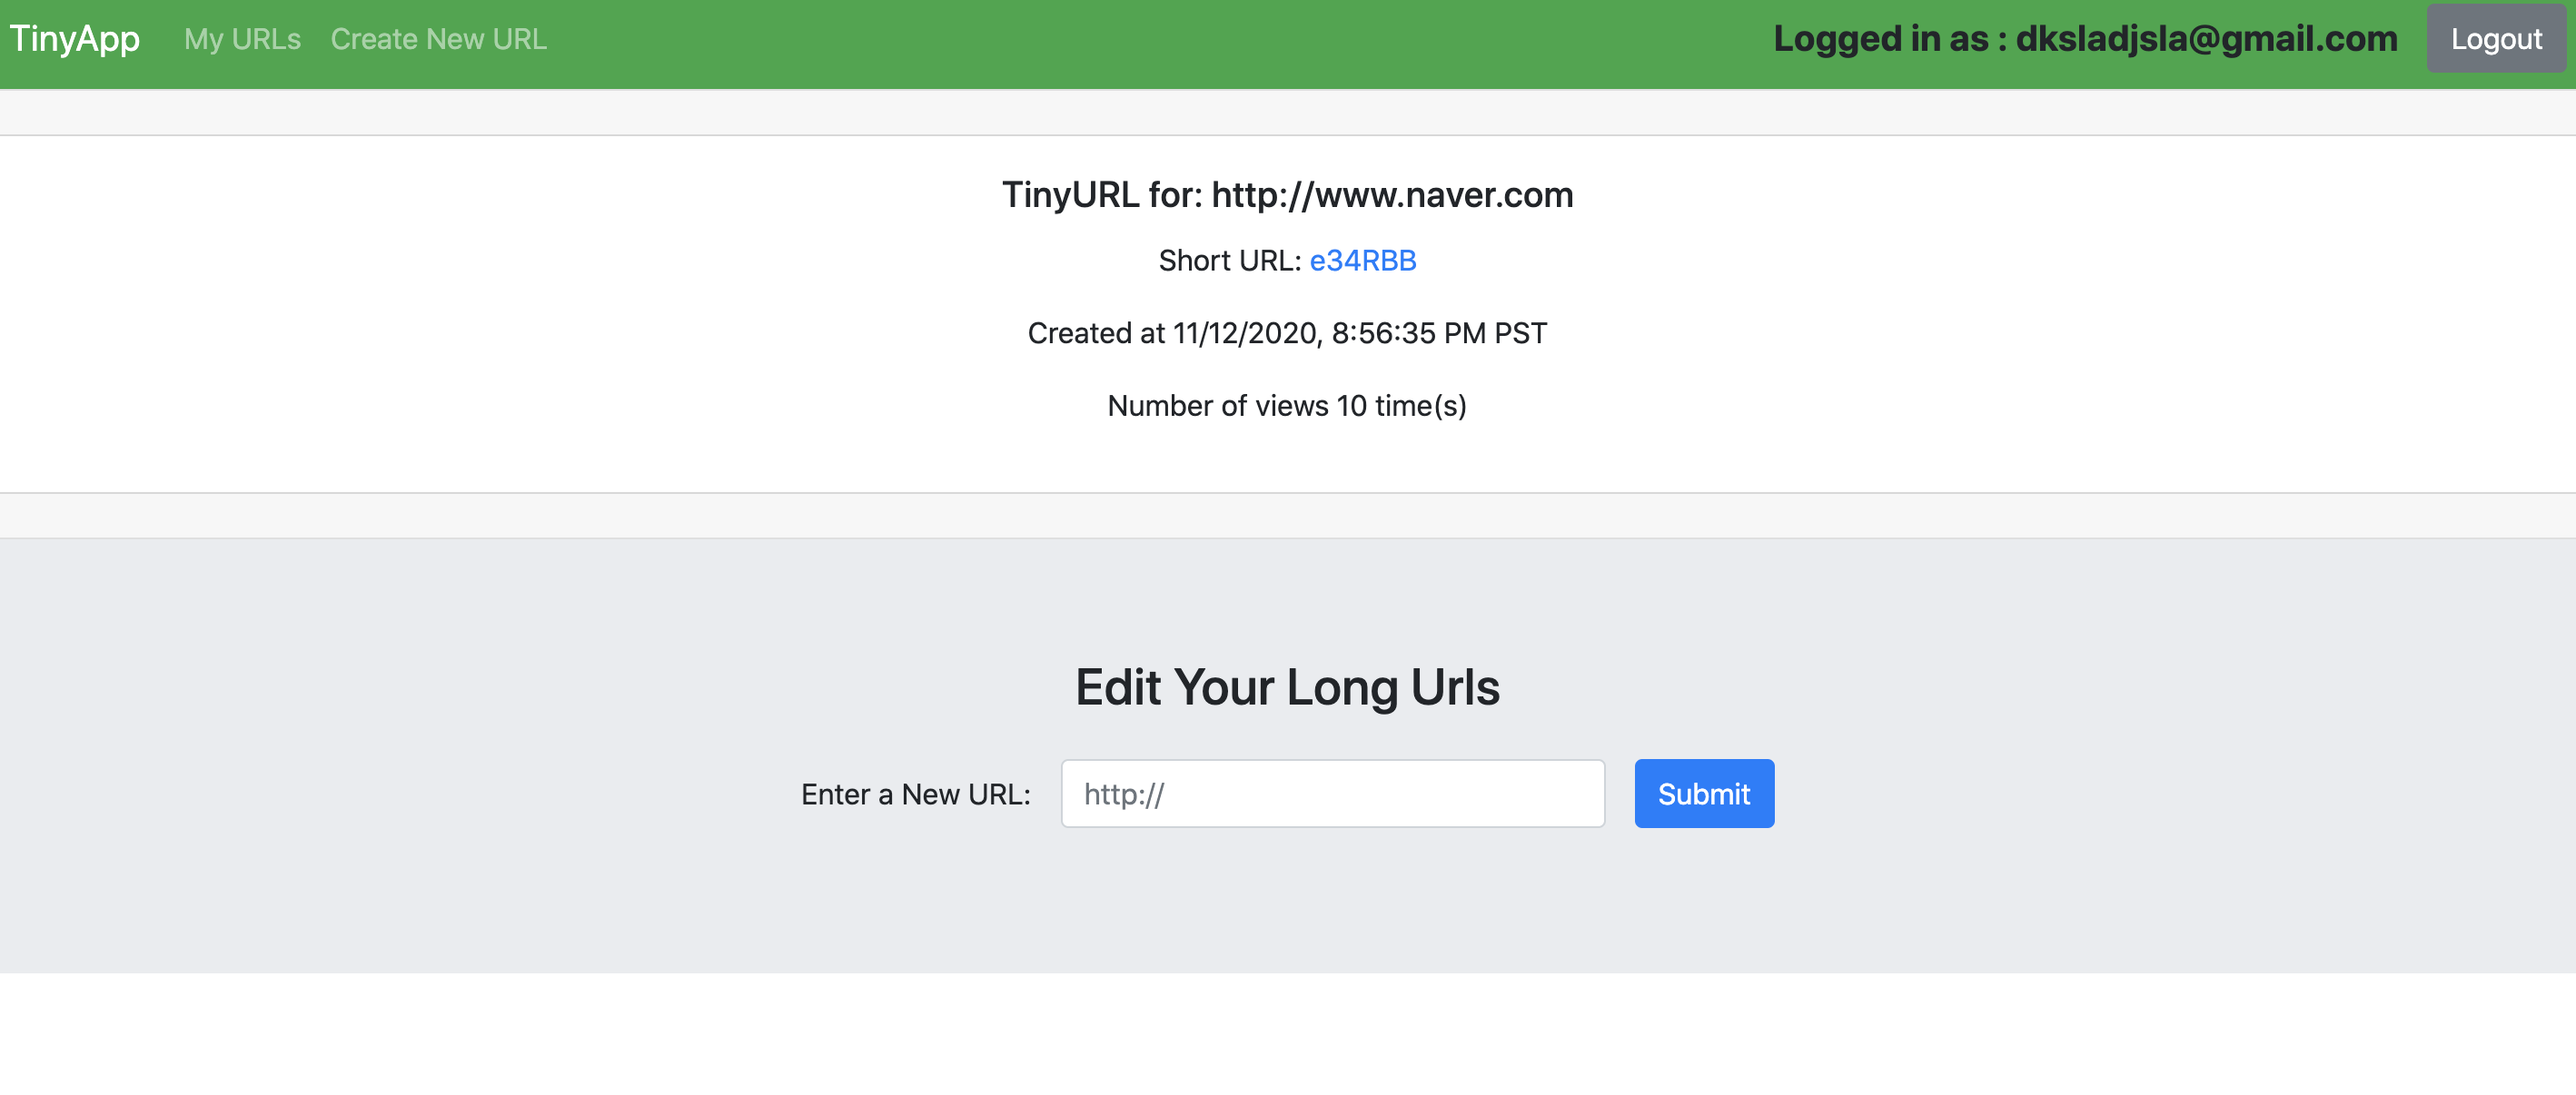
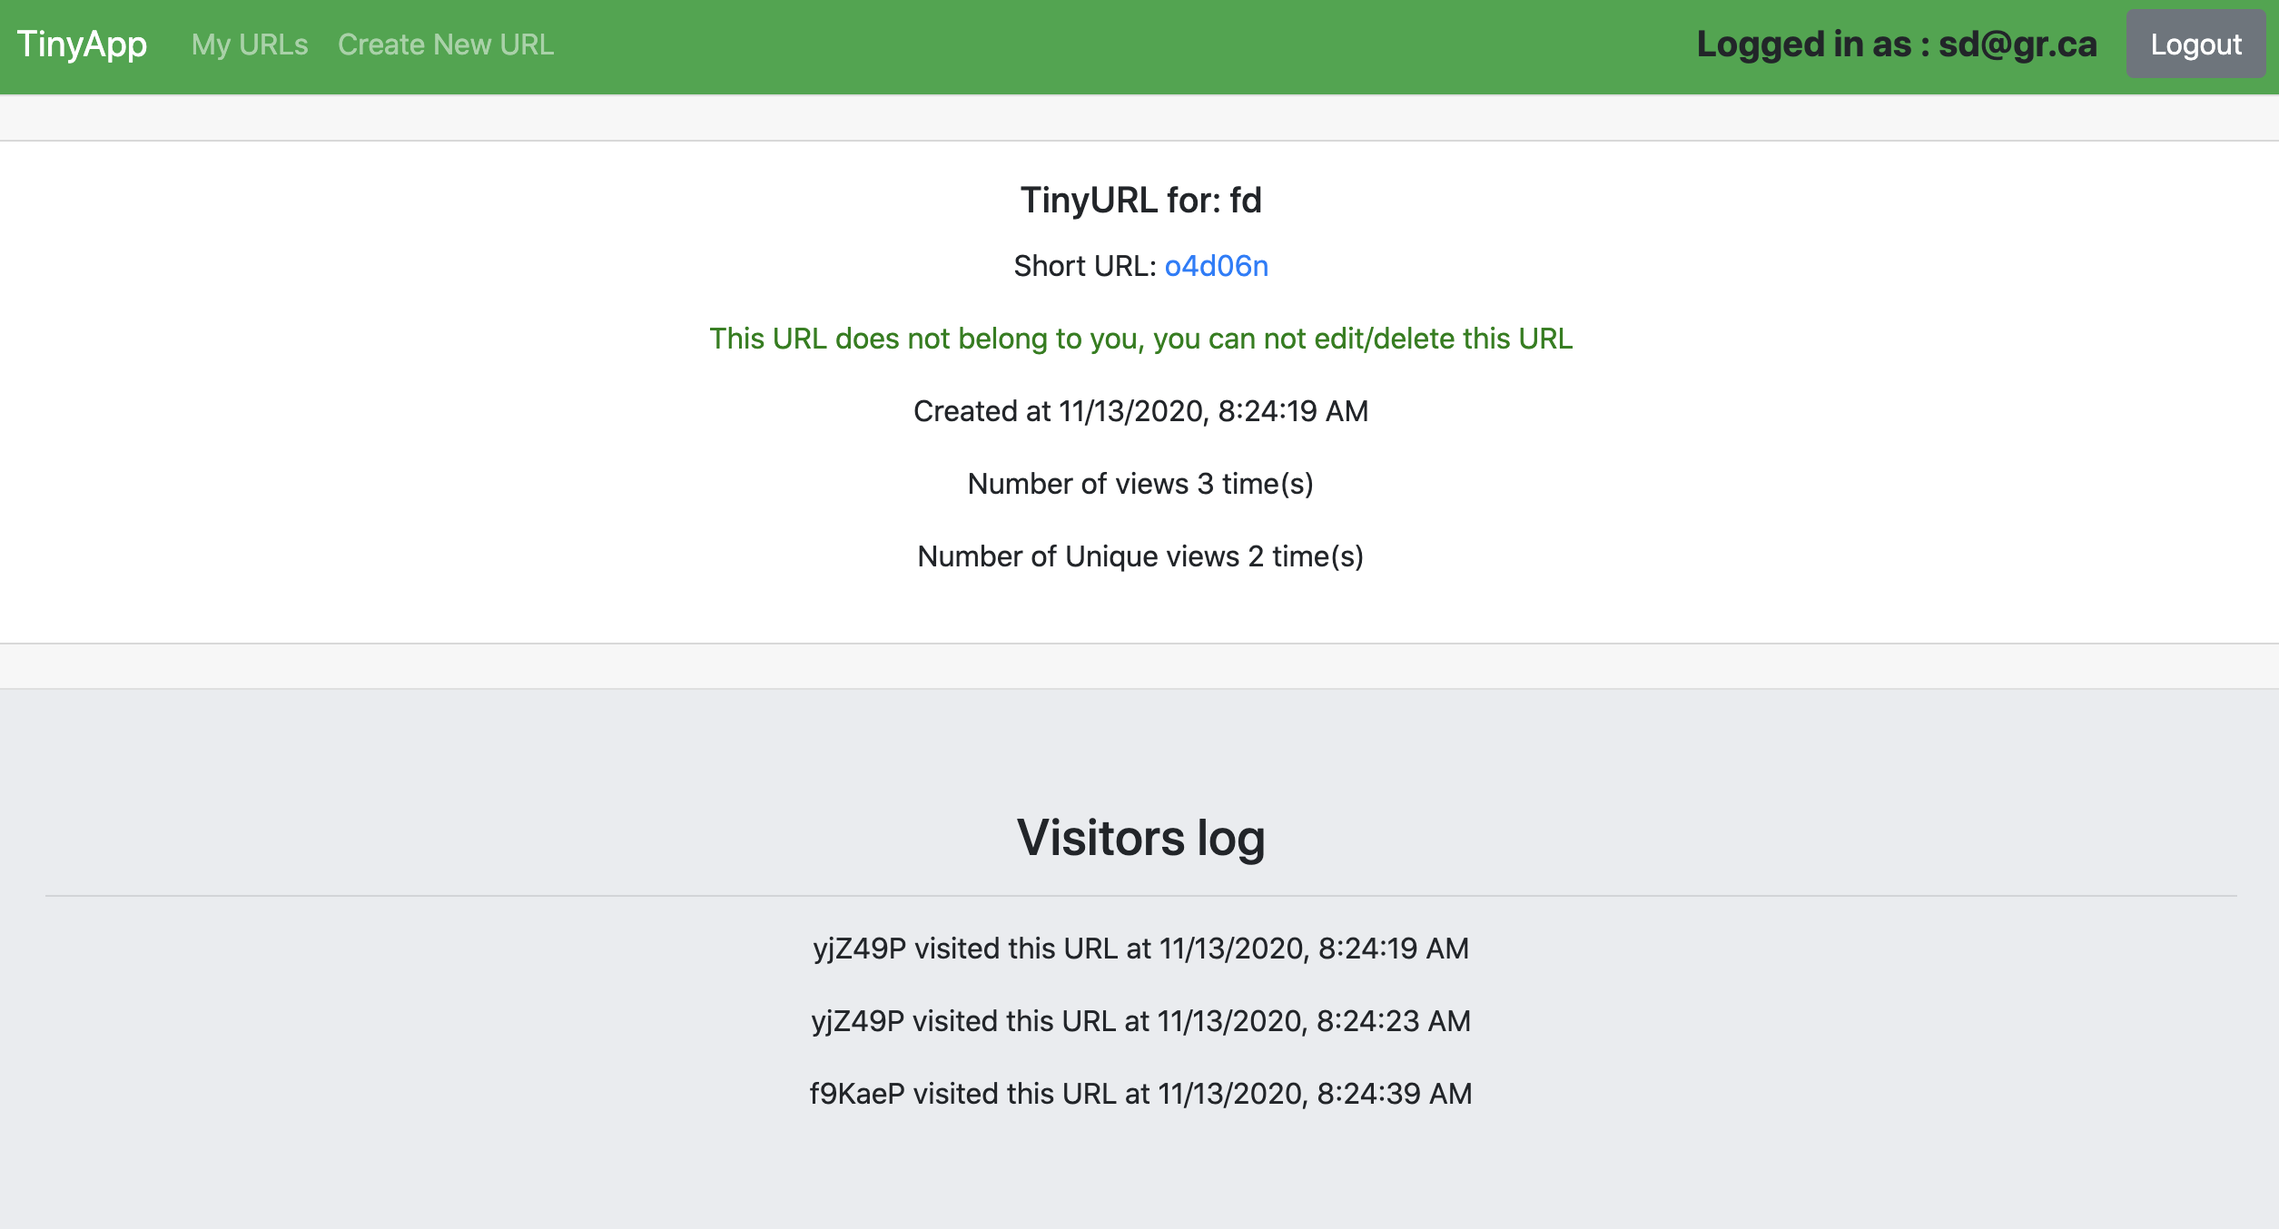
Added new features and fixed bugs

diff --git a/express_server.js b/express_server.js
@@ -8,6 +8,7 @@ const {generateRandomString,deleteitem,validateEmail,logincheck,urlsForUser,getU
 const PORT = 8080; // default port 8080
 const urlDatabase = {};
 const user = {};
+const track = {};
 app.set("view engine", "ejs");
 app.use(cookieSession({
   name: 'session',
@@ -28,16 +29,41 @@ app.get("/urls/:shortURL", (req, res) => {
   const id = req.session.user_id;
   let belong = true;
   //Send an error if a user type in undefined url
-  req.session.visits += 1;
+  if (!req.session[req.params.shortURL]) {
+    req.session[req.params.shortURL] = 1;
+  } else {
+    req.session[req.params.shortURL] += 1;
+  }
+  
+  
   if (urlDatabase[req.params.shortURL] === undefined) return res.send(`invalid URL`);
   else if (urlDatabase[req.params.shortURL].userID !== id) {
     belong = false;
   }
+  let date = new Date();
+  if (req.session.user_id) {
+    if (!Object.keys(track).includes(req.params.shortURL)) {
+      track[req.params.shortURL] = {};
+      track[req.params.shortURL][`user`] = [];
+      track[req.params.shortURL][`time`] = [];
+    }
+    track[req.params.shortURL][`user`].push(req.session.user_id);
+    track[req.params.shortURL][`time`].push(date.toLocaleString());
+  }
+  // Use filter to find unique visits filter out duplicates
+  const uniq = track[req.params.shortURL][`user`]
+    .filter((item,index) => {
+      return track[req.params.shortURL][`user`].indexOf(item) === index;
+    })
+    .length;
   const templateVars = {
     shortURL: req.params.shortURL,
     longURL: urlDatabase[req.params.shortURL].longURL,
     time : urlDatabase[req.params.shortURL].time,
-    visits : req.session.visits,
+    visits : req.session[req.params.shortURL],
+    timeStamp : track[req.params.shortURL][`time`],
+    user : track[req.params.shortURL][`user`],
+    uniqvisits : uniq,
     belong,
   };
   const match = logincheck(req,user);
@@ -96,12 +122,12 @@ app.get("/register", (req, res) => {
 app.post("/register", (req, res) => {
   if (validateEmail(user,req.body.email)) {
     const id = generateRandomString();
+    if (!req.body.password) return res.status(400).send('Please Enter password');
     user[id] = {
       id : id,
       email : req.body.email,
       password :  bcrypt.hashSync(req.body.password, 10)
     };
-    
     req.session.user_id = id;
     res.redirect("/urls");
   } else res.status(400).send('Invalid Email');
@@ -117,13 +143,11 @@ app.post("/urls", (req, res) => {
     return res.redirect(`/login`);
   } else {
     const x = generateRandomString();
-    const date = new Date();
-    date.setHours(-4);
+    let date = new Date();
     urlDatabase[x] = {};
     urlDatabase[x].longURL = req.body.longURL;
     urlDatabase[x].userID = req.session.user_id;
     urlDatabase[x].time = date.toLocaleString();
-    console.log(urlDatabase[x].time);
     res.redirect(`urls/${x}`);
   }
 });
@@ -145,7 +169,7 @@ app.delete("/urls/:shortURL/delete", (req, res) => {
   deleteitem(req.params.shortURL,urlDatabase);
   res.redirect(`/urls`);
 });
-//Check if the server is running properly
+//
 app.get("/", (req, res) => {
   if (!req.session.user_id) return res.redirect(`/login`);
   else {
